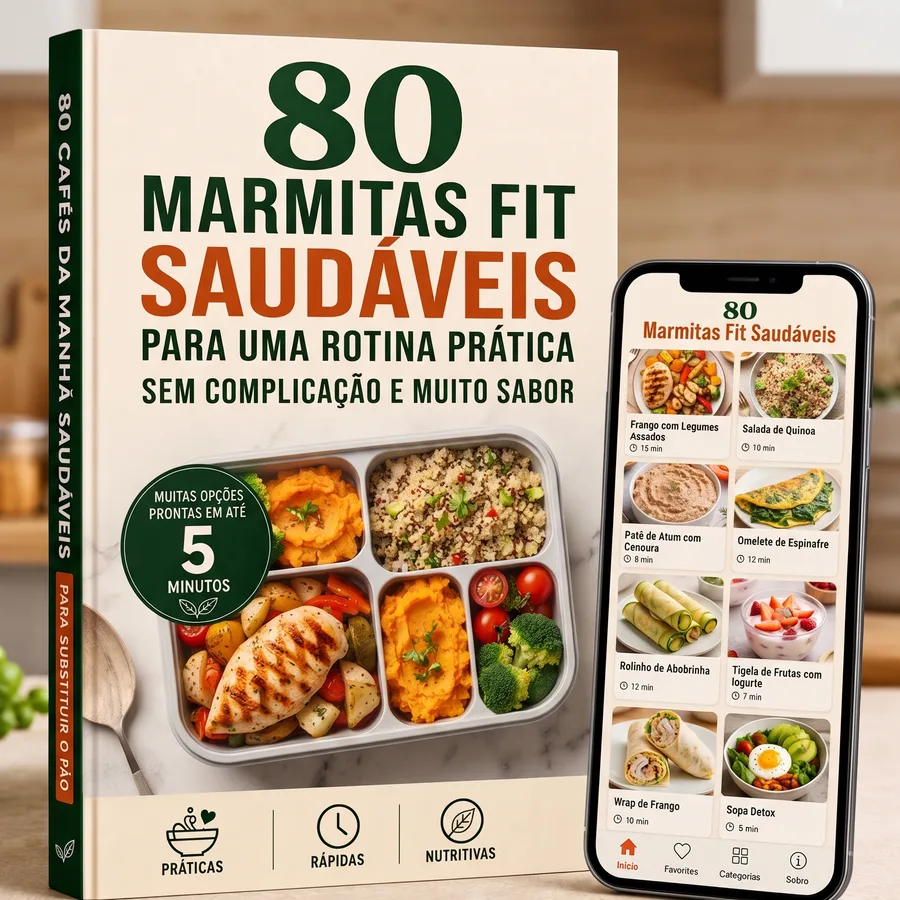
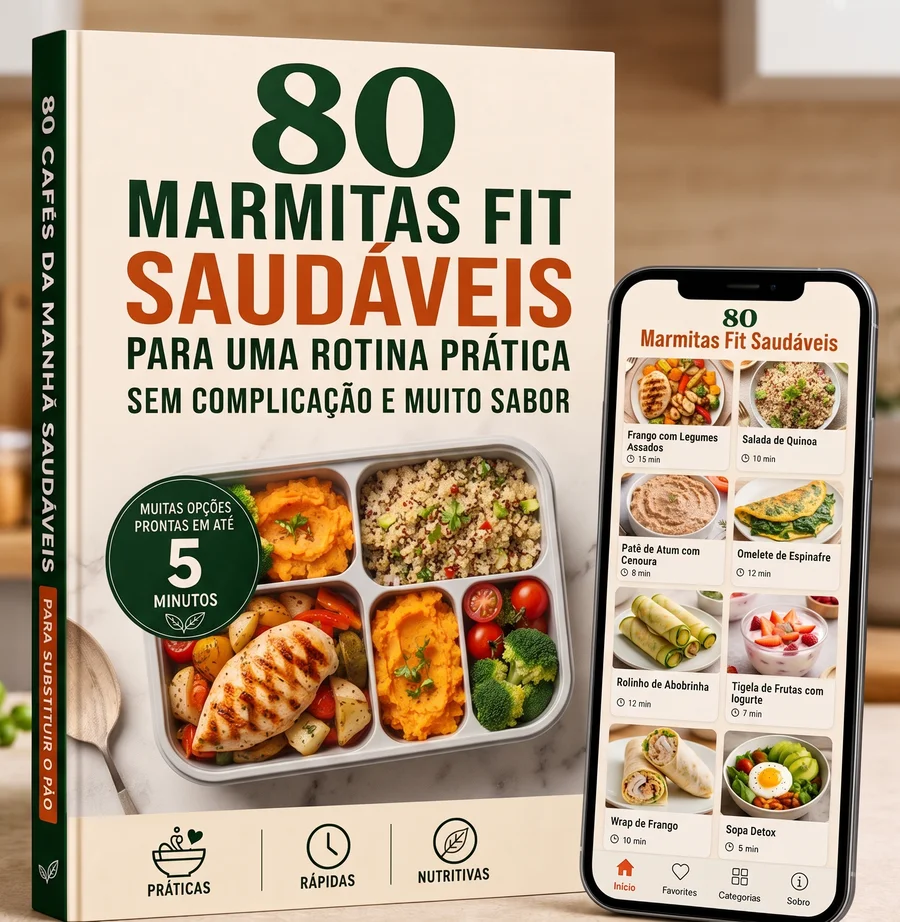
Esmaece o fundo de cozinha na imagem do Plano Essencial
Como é uma foto real (não estúdio uniforme), aplica gradiente de
fusão nas bordas via CSS (topo, base e cantos) para o fundo desaparecer
no creme do card, mantendo o livro e o celular nítidos no centro.

diff --git a/index.html b/index.html
@@ -358,6 +358,15 @@
   }
   .plan-card img{width:100%;height:190px;object-fit:contain;background:var(--cream);margin:0 auto 16px;border-radius:10px;}
   .plan-card:not(.popular) img{box-shadow:0 8px 20px rgba(0,0,0,.12);}
+  .plan-img-frame{position:relative;overflow:hidden;border-radius:10px;}
+  .plan-img-frame::after{
+    content:"";position:absolute;inset:0;border-radius:10px;pointer-events:none;
+    background:
+      linear-gradient(180deg, rgba(255,248,238,.95) 0%, rgba(255,248,238,.55) 12%, transparent 30%),
+      linear-gradient(0deg, rgba(255,248,238,.7) 0%, transparent 22%),
+      radial-gradient(ellipse 45% 55% at 88% 8%, rgba(255,248,238,.9) 0%, transparent 60%),
+      radial-gradient(ellipse 30% 90% at 3% 50%, rgba(255,248,238,.8) 0%, transparent 55%);
+  }
   .plan-card h3{font-size:18px;text-align:center;color:var(--green-dark);}
   .plan-card .plan-type{text-align:center;color:var(--muted);font-size:12px;margin-bottom:14px;}
   .plan-price{text-align:center;margin-bottom:18px;}
@@ -752,7 +761,7 @@
 
     <div class="plans-grid">
       <div class="plan-card">
-        <img src="assets/19-plano-essencial-guia.webp" alt="Plano Essencial - guia de marmitas fit" loading="lazy" decoding="async">
+        <div class="plan-img-frame"><img src="assets/19-plano-essencial-guia.webp" alt="Plano Essencial - guia de marmitas fit" loading="lazy" decoding="async"></div>
         <h3>Plano Essencial</h3>
         <div class="plan-type">Guia Digital em PDF</div>
         <div class="plan-price">
